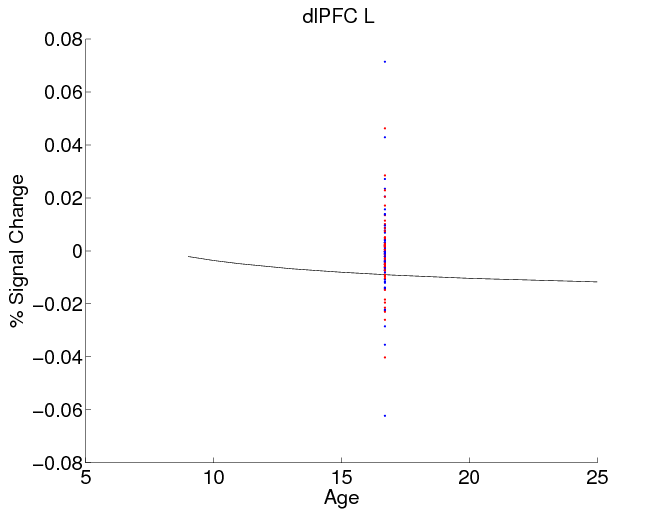
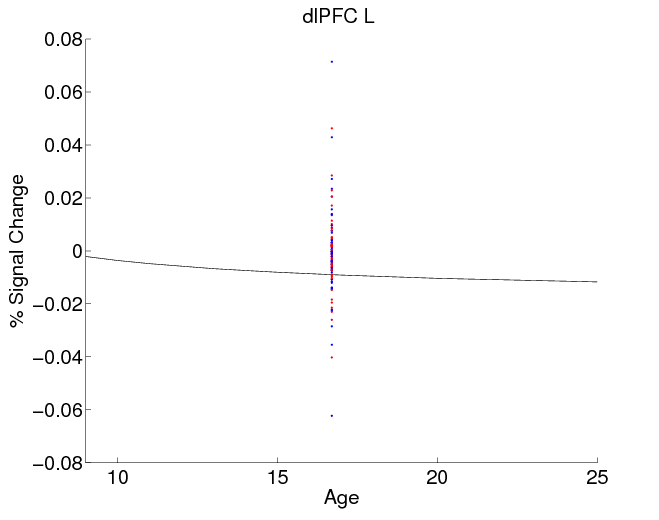
add xlim (Alatcorr still off)

diff --git a/ROIHLM/plotParallel.m b/ROIHLM/plotParallel.m
@@ -172,7 +172,7 @@ for i=1:length(files)
    %%%%%%%%%%%%%%%%%%%%
    % with just a dash
    %%%%%%%%%%%%%%%%%%%
-   fig=figure; hold on;  %ylim([-.05 .15 ])
+   fig=figure; hold on;  xlim([9 25]); %ylim([-.05 .15 ])
 
    % labeling and title
    xlabel('Age'); ylabel('% Signal Change'); title(rname);
